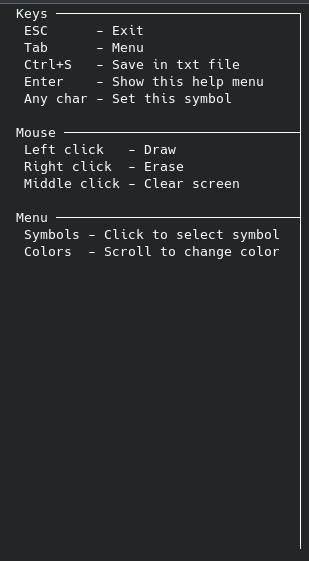
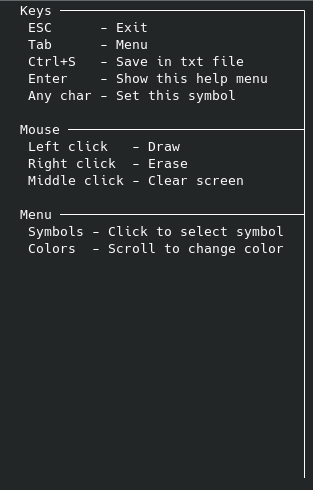
menu fix

Changed region(s): [[0.0, 0.0, 1.0, 0.9796]]

diff --git a/menu.go b/menu.go
@@ -9,17 +9,18 @@ const menuWidth = 15
 const helpWidth = 37
 
 var symbols = map[string]pixel{
-	"3,1": {X: 3, Y: 1, symbol: "."}, "5,1": {X: 5, Y: 1, symbol: ":"}, "7,1": {X: 7, Y: 1, symbol: "!"}, "9,1": {X: 9, Y: 1, symbol: "/"},
-	"3,3": {X: 3, Y: 3, symbol: "r"}, "5,3": {X: 5, Y: 3, symbol: "("}, "7,3": {X: 7, Y: 3, symbol: "l"}, "9,3": {X: 9, Y: 3, symbol: "1"},
-	"3,5": {X: 3, Y: 5, symbol: "Z"}, "5,5": {X: 5, Y: 5, symbol: "4"}, "7,5": {X: 7, Y: 5, symbol: "H"}, "9,5": {X: 9, Y: 5, symbol: "9"},
-	"3,7": {X: 3, Y: 7, symbol: "W"}, "5,7": {X: 5, Y: 7, symbol: "8"}, "7,7": {X: 7, Y: 7, symbol: "$"}, "9,7": {X: 9, Y: 7, symbol: "@"},
-	"3,9": {X: 3, Y: 9, symbol: "░"}, "5,9": {X: 5, Y: 9, symbol: "▒"}, "7,9": {X: 7, Y: 9, symbol: "▓"}, "9,9": {X: 9, Y: 9, symbol: "█"},
+	"3,1": {X: 3, Y: 1, symbol: "┌"}, "5,1": {X: 5, Y: 1, symbol: "├"}, "7,1": {X: 7, Y: 1, symbol: "┬"}, "9,1": {X: 9, Y: 1, symbol: "─"}, "11,1": {X: 11, Y: 1, symbol: "┐"},
+	"3,3": {X: 3, Y: 3, symbol: "└"}, "5,3": {X: 5, Y: 3, symbol: "┤"}, "7,3": {X: 7, Y: 3, symbol: "┴"}, "9,3": {X: 9, Y: 3, symbol: "│"}, "11,3": {X: 11, Y: 3, symbol: "┘"}, "13,3": {X: 13, Y: 3, symbol: "┼"},
+	"3,5": {X: 3, Y: 5, symbol: "┏"}, "5,5": {X: 5, Y: 5, symbol: "┣"}, "7,5": {X: 7, Y: 5, symbol: "┳"}, "9,5": {X: 9, Y: 5, symbol: "━"}, "11,5": {X: 11, Y: 5, symbol: "┓"},
+	"3,7": {X: 3, Y: 7, symbol: "┗"}, "5,7": {X: 5, Y: 7, symbol: "┫"}, "7,7": {X: 7, Y: 7, symbol: "┻"}, "9,7": {X: 9, Y: 7, symbol: "┃"}, "11,7": {X: 11, Y: 7, symbol: "┛"}, "13,7": {X: 13, Y: 7, symbol: "╋"},
+	"3,9": {X: 3, Y: 9, symbol: "╭"}, "5,9": {X: 5, Y: 9, symbol: "╮"}, "7,9": {X: 7, Y: 9, symbol: "╯"}, "9,9": {X: 9, Y: 9, symbol: "╰"},
+	"3,11": {X: 3, Y: 11, symbol: "░"}, "5,15": {X: 5, Y: 11, symbol: "▒"}, "7,15": {X: 7, Y: 11, symbol: "▓"}, "9,15": {X: 9, Y: 11, symbol: "█"},
 }
 
 var colors = map[string]pixel{
-	"3,13": {X: 3, Y: 13, symbol: "R"},
-	"3,15": {X: 3, Y: 15, symbol: "G"},
-	"3,17": {X: 3, Y: 17, symbol: "B"},
+	"3,15": {X: 3, Y: 15, symbol: "R"},
+	"3,17": {X: 3, Y: 17, symbol: "G"},
+	"3,19": {X: 3, Y: 19, symbol: "B"},
 }
 
 type menuItem struct {
@@ -102,7 +103,7 @@ func drawSymbolMenu(s screen, board [][]string) [][]string {
 
 func drawColorMenu(s screen, board [][]string) [][]string {
 	str := "Color " + strings.Repeat("─", menuWidth-2-len("Color ")) + "┤"
-	drawString(0, 11, str, board)
+	drawString(0, 13, str, board)
 	for _, c := range colors {
 		switch c.symbol {
 		case "R":
@@ -117,12 +118,12 @@ func drawColorMenu(s screen, board [][]string) [][]string {
 		}
 
 	}
-	board[19][3] = fgRgb(s.color.R, s.color.G, s.color.B, "█")
-	board[19][4] = fgRgb(s.color.R, s.color.G, s.color.B, "█")
-	board[19][5] = fgRgb(s.color.R, s.color.G, s.color.B, "█")
-	board[20][3] = fgRgb(s.color.R, s.color.G, s.color.B, "█")
-	board[20][4] = fgRgb(s.color.R, s.color.G, s.color.B, "█")
-	board[20][5] = fgRgb(s.color.R, s.color.G, s.color.B, "█")
+	board[21][3] = fgRgb(s.color.R, s.color.G, s.color.B, "█")
+	board[21][4] = fgRgb(s.color.R, s.color.G, s.color.B, "█")
+	board[21][5] = fgRgb(s.color.R, s.color.G, s.color.B, "█")
+	board[22][3] = fgRgb(s.color.R, s.color.G, s.color.B, "█")
+	board[22][4] = fgRgb(s.color.R, s.color.G, s.color.B, "█")
+	board[22][5] = fgRgb(s.color.R, s.color.G, s.color.B, "█")
 
 	return board
 }
